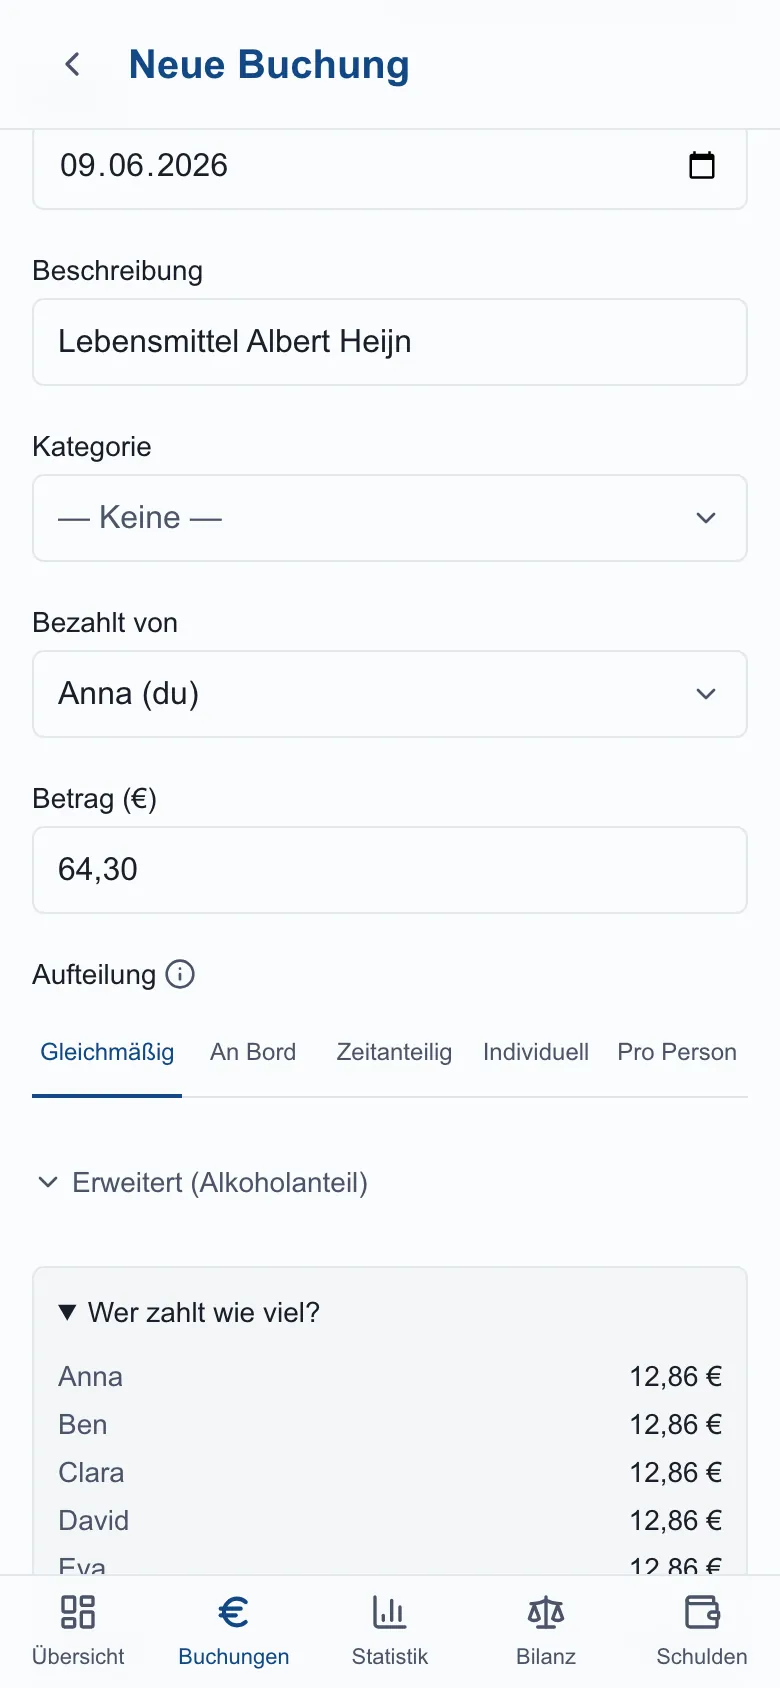
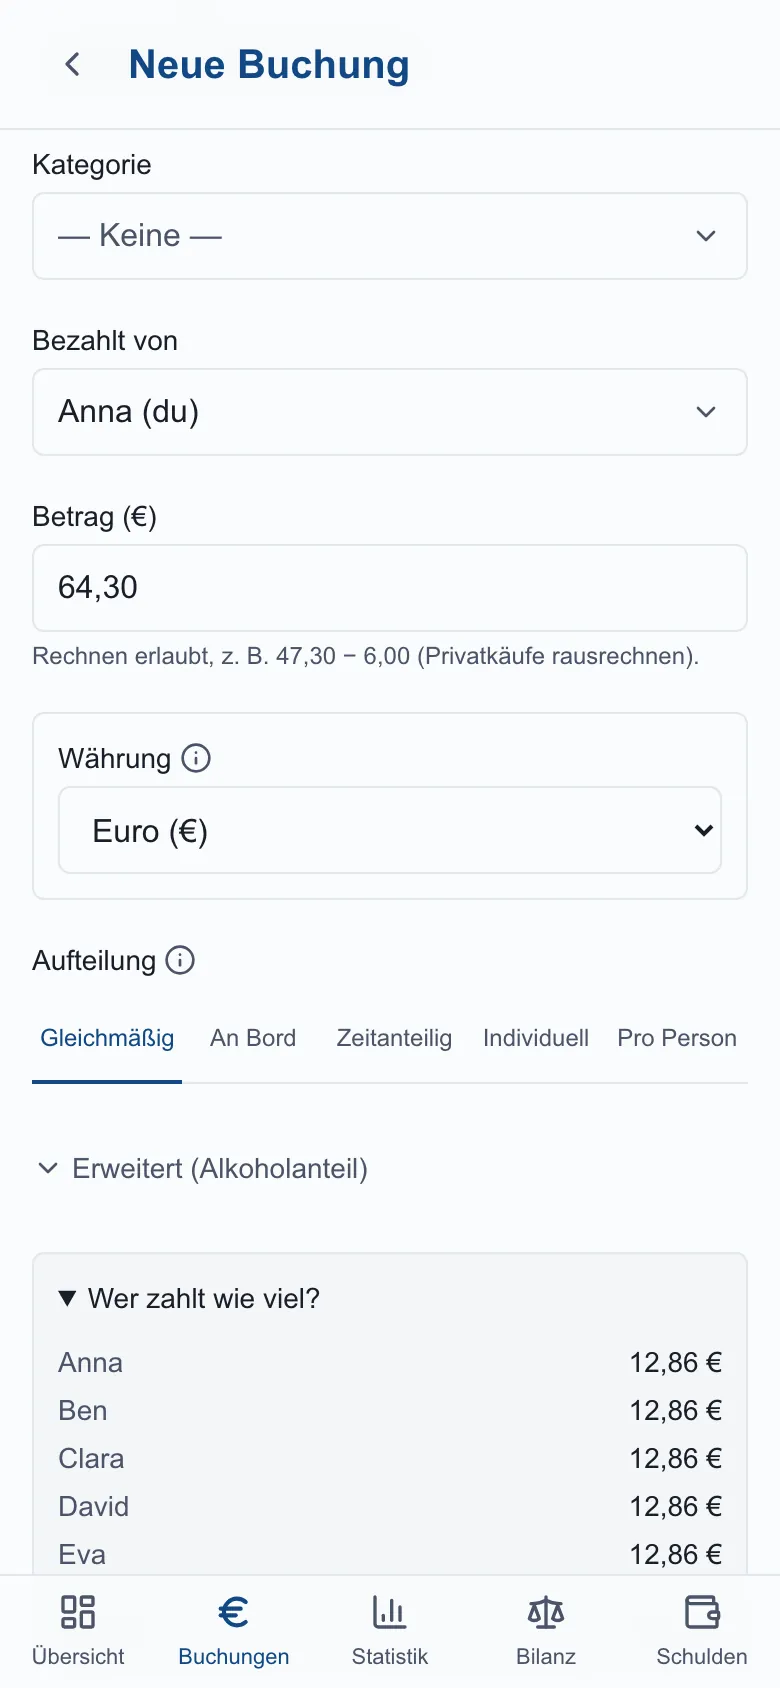
/about: Screenshot 19-fremdwaehrung + 06/12 mit Währungswähler
- 19-fremdwaehrung.webp: neue Buchung in NOK (480), Kurs 0,085 → „Ergibt 40,80 €",
  inkl. Bank-Aufklapper.
- 06-buchung-neu.webp + 12-gutschrift.webp neu aufgenommen: der Demo-Ostseetörn
  hat jetzt Fremdwährungen aktiviert → beide Masken zeigen den (auf Euro
  stehenden) Währungswähler; sonst unverändert.
- take-screenshots.ts: Feinschliff der 19-Aufnahme (Kurs-Feld zentriert, Maus
  aus dem ⓘ-Hover → kein offener Tooltip).

diff --git a/webapp/scripts/take-screenshots.ts b/webapp/scripts/take-screenshots.ts
@@ -334,8 +334,12 @@ async function main() {
   // immer „Ergibt 40,80 €" zeigt.
   await page.locator("#exchange_rate_input").fill("0,085").catch(() => {});
   await page.waitForTimeout(300);
-  await page.locator("#currency_select").scrollIntoViewIfNeeded().catch(() => {});
-  await page.waitForTimeout(200);
+  // Kurs-Feld zentrieren → „Ergibt X €" darunter bleibt sichtbar, Währung darüber.
+  await page.locator("#exchange_rate_input").scrollIntoViewIfNeeded().catch(() => {});
+  await page.evaluate(() => window.scrollBy(0, 60));
+  // Maus in die Ecke → kein ⓘ-Tooltip bleibt offen und verdeckt den Kurs.
+  await page.mouse.move(5, 5).catch(() => {});
+  await page.waitForTimeout(250);
   await shot(page, "19-fremdwaehrung");
 
   console.log("→ Bilanz");
